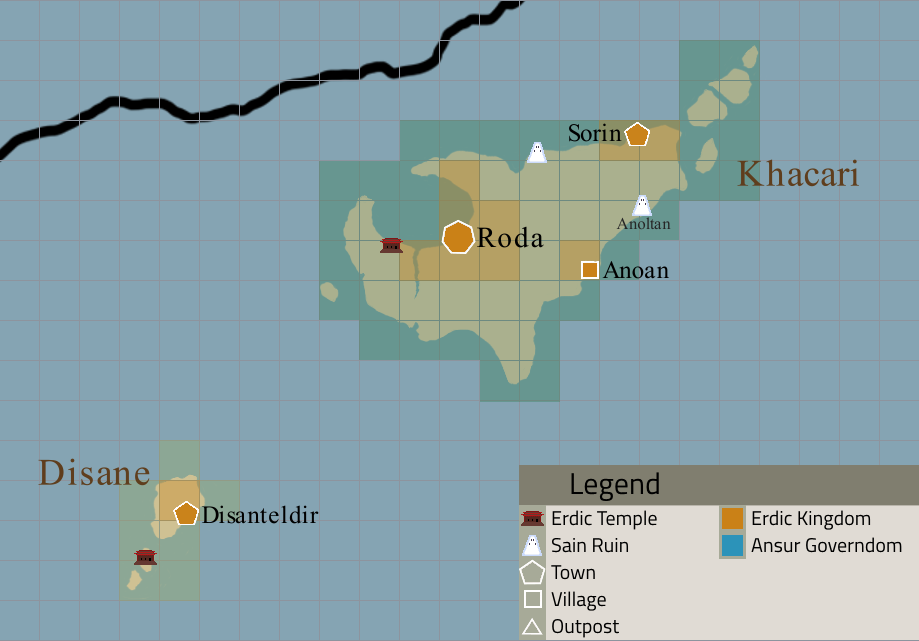
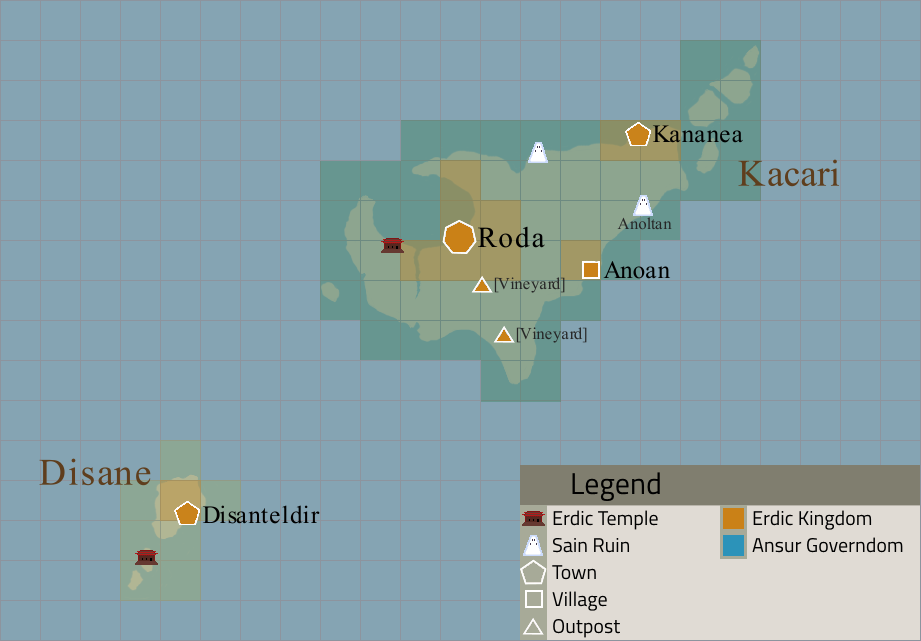
Kacari + UoI pages made, updated Kacari gridmap

diff --git a/Loreum/Topics/Geography/Baedoor_Continent/Kaer/Kacari.md b/Loreum/Topics/Geography/Baedoor_Continent/Kaer/Kacari.md
@@ -1,0 +1,41 @@
+# 🏞 Kacari Isle
+
+<table>
+    <tr>
+        <td width="60%">
+            <img alt="Kac/Dis map" height="400" src="/Assets/Maps/erdic_islands.png">
+        </td>
+        <td width="40%" align="center">
+            <img alt="Kacari map, book" height="400" src="/Assets/Maps/kacari_book.png">
+        </td>
+    </tr>
+    <tr>
+        <td> Gridmap of Kacari and Disane islands, New Era </td>
+        <td> Kacari from "Southern Islands" book           </td>
+    </tr>
+</table>
+
+---
+**Kacari** is the biggest island satelliting [Kaer](/Loreum/Topics/Geography/Baedoor_Continent/Kaer.md)
+that also holds position of being a sanctuary of [erds](/Loreum/Topics/Cultures/Erds/[Culture].md).
+
+Covered heavily by dense forests, it holds one of two capitals of erdic state, the city of Roda.  
+Other than that, its notable settlements are trading town of Kananea and fishing village located
+on southern coast, Anoan, deriving name from past town of Anoltan built further east.  
+In addition, Kacari hosts the biggest temple of erdic faith, and major research institution,
+University of Illusion.
+
+**TOWNS**
+- Roda
+- Kananea
+
+**VILLAGES**
+- Anoan
+- Anoltan `ruined`
+
+**PLACES**
+- [University of Illusion](Places/University_of_Illusion.md)
+
+---
+♜  
+[💠](/Entrance.md) 〰 [➰](/Loreum/Loreum.md) 〰 [🌏](/Loreum/Topics/Geography.md) 〰 [🌄](/Loreum/Topics/Geography/Baedoor_Continent/Kaer.md)

diff --git a/Loreum/Topics/Geography/Baedoor_Continent/Kaer/Places/University_of_Illusion.md b/Loreum/Topics/Geography/Baedoor_Continent/Kaer/Places/University_of_Illusion.md
@@ -1,0 +1,19 @@
+# 🌾 University of Illusion
+
+---
+**University of Illusion** is the oldest academic and research institution founded by [erds](/Loreum/Topics/Cultures/Erds/[Culture].md).  
+Built on [Kacari](/Loreum/Topics/Geography/Baedoor_Continent/Kaer/Kacari.md), it is a destination
+for many adepts, be it interested in broad variety of academic topics studied there, or to learn
+nuances of ancient erdic magic.  
+The university is heavily backed financially by the Roda governor, with fair share of funds
+brought also from Kaer.
+
+The name of the university is taken from erdic reading on word "illusion" that does mean to them
+a reality in itself, with its oneiric and impenetrable nature.
+
+### CHARACTERS
+- [Keno Nira](/Loreum/Topics/Characters/List/Nira_Keno.md)
+
+---
+♜  
+[💠](/Entrance.md) 〰 [➰](/Loreum/Loreum.md) 〰 [🌏](/Loreum/Topics/Geography.md) 〰 [🌄](/Loreum/Topics/Geography/Baedoor_Continent/Kaer/Kacari.md)

diff --git a/Loreum/Index.md b/Loreum/Index.md
@@ -90,6 +90,7 @@ You can find all possible named entries of Encyclopaedia Loreum here listed.
 - [Joeseh Thon](Topics/Characters/List/Thon_Joeseh.md)
 
 ### K
+- [Kacari](Topics/Geography/Baedoor_Continent/Kaer/Kacari.md)
 - [Kaer](Topics/Geography/Baedoor_Continent/Kaer.md)
 - [Kaerian](Topics/Cultures/Kaerians/[Culture].md)
 - [Kalvhyk](Topics/Nature/Foods/List/Kalvhyk.md)
@@ -160,6 +161,7 @@ You can find all possible named entries of Encyclopaedia Loreum here listed.
 - [Tsue](Topics/Nature/Herbarium/List/Tsue.md)
 
 ### U
+- [University of Illusion](Topics/Geography/Baedoor_Continent/Kaer/Places/University_of_Illusion.md)
 - [Unteupta](Topics/Cultures/Baedoorians/Vehicles/Unteupta.md)
 - [Unteupta Assassination](Topics/History/List/Unteupta_Assassination.md)
 - [Uruati](Topics/Races/Creature/Uruati.md)

diff --git a/Loreum/Topics/Geography/Baedoor_Continent/Baedoor/Places/Golden_Lighthouse_of_Baedoor.md b/Loreum/Topics/Geography/Baedoor_Continent/Baedoor/Places/Golden_Lighthouse_of_Baedoor.md
@@ -13,4 +13,4 @@ Lighthouse build started in 988 SE and took two years. Its first shape were crea
 
 ---
 ♢  
-[💠](/Entrance.md) 〰 [➰](/Loreum/Loreum.md) 〰 [🌏](/Loreum/Topics/Geography.md) 〰 [🌄](/Loreum/Topics/Geography/Baedoor_Continent/Baedoor.mdntinent/Baedoor.md)
+[💠](/Entrance.md) 〰 [➰](/Loreum/Loreum.md) 〰 [🌏](/Loreum/Topics/Geography.md) 〰 [🌄](/Loreum/Topics/Geography/Baedoor_Continent/Baedoor.md)

diff --git a/Loreum/Topics/Geography/Baedoor_Continent/Kaer.md b/Loreum/Topics/Geography/Baedoor_Continent/Kaer.md
@@ -74,7 +74,7 @@ during Baedoor occupation.
 #### Skand (-> Sodthas)
 - Port Bristeldir `Gubera on map`
 
-#### Kacari
+#### [Kacari](Kaer/Kacari.md)
 - Roda
 - Sorin
 
@@ -115,9 +115,11 @@ during Baedoor occupation.
 - Cataris
 - Atakil
 - Sanaran
-#### Kacari
+#### [Kacari](Kaer/Kacari.md)
 - Roda
 - Kananea
+#### [Disane](Kaer/Disane.md)
+- [Disanteldir](Kaer/Cities/Disanteldir.md)
 ### VILLAGES
 #### Kaerians
 - Ardhaved

diff --git a/Loreum/Topics/Geography/Baedoor_Continent/Baedoor/Places/Tom_Varteford_Plantation.md b/Loreum/Topics/Geography/Baedoor_Continent/Baedoor/Places/Tom_Varteford_Plantation.md
@@ -11,4 +11,4 @@ resulting on this place becoming abandoned.
 
 ---
 ♢  
-[💠](/Entrance.md) 〰 [➰](/Loreum/Loreum.md) 〰 [🌏](/Loreum/Topics/Geography.md) 〰 [🌄](/Loreum/Topics/Geography/Baedoor_Continent/Baedoor.mdntinent/Baedoor.md)
+[💠](/Entrance.md) 〰 [➰](/Loreum/Loreum.md) 〰 [🌏](/Loreum/Topics/Geography.md) 〰 [🌄](/Loreum/Topics/Geography/Baedoor_Continent/Baedoor.md)
